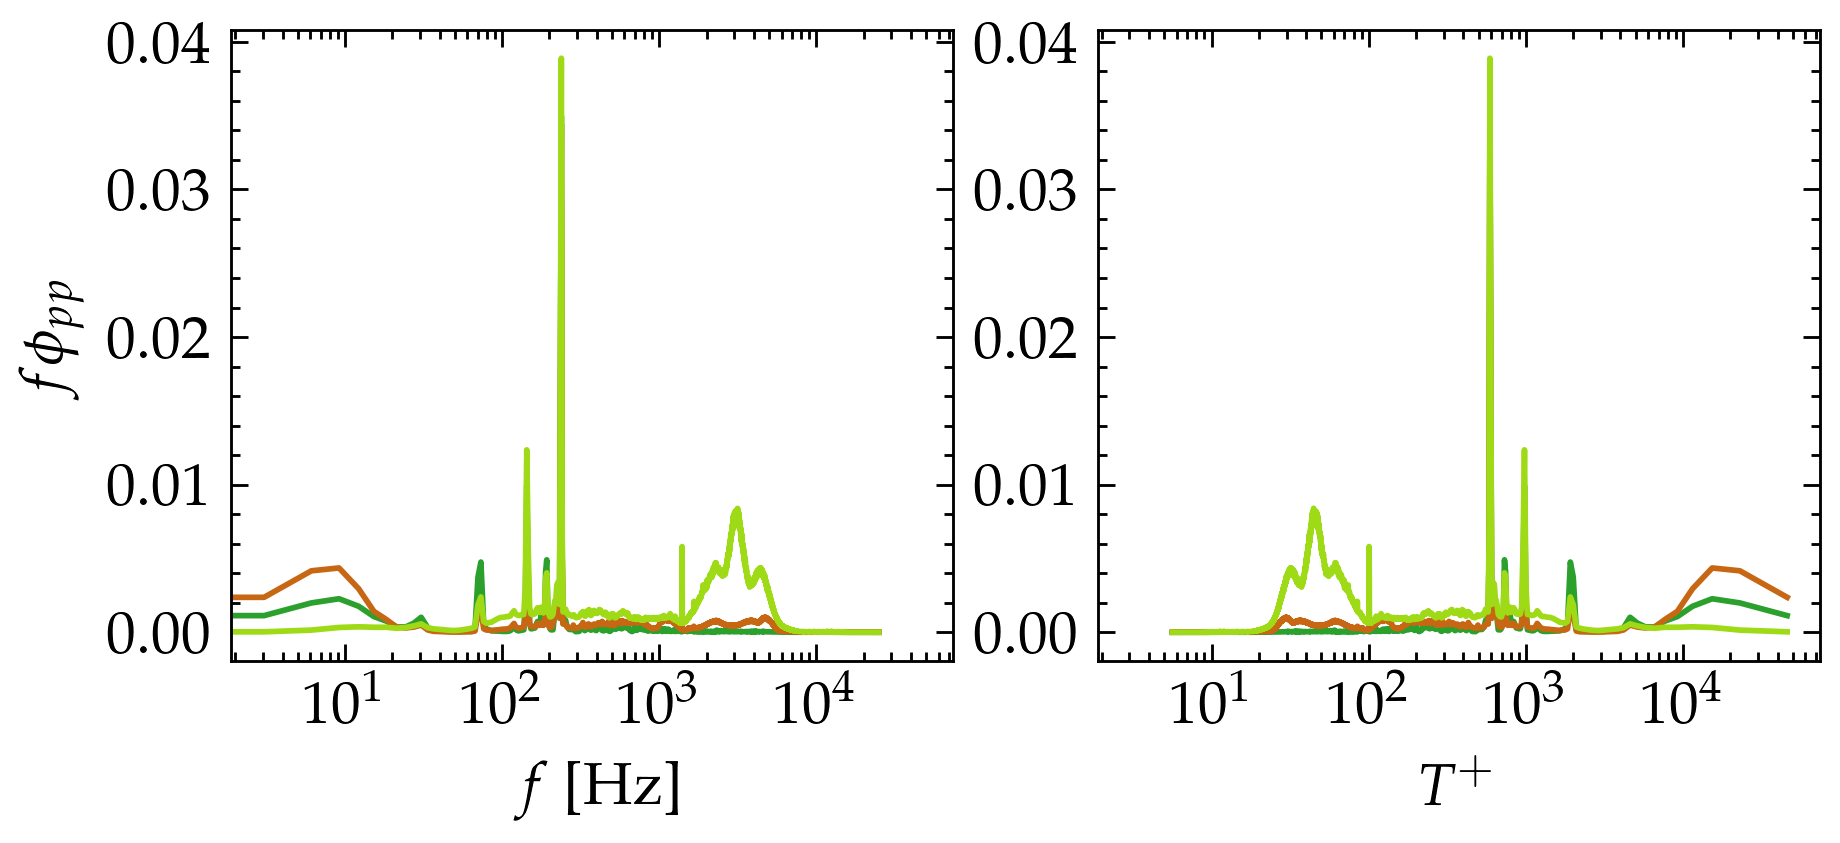
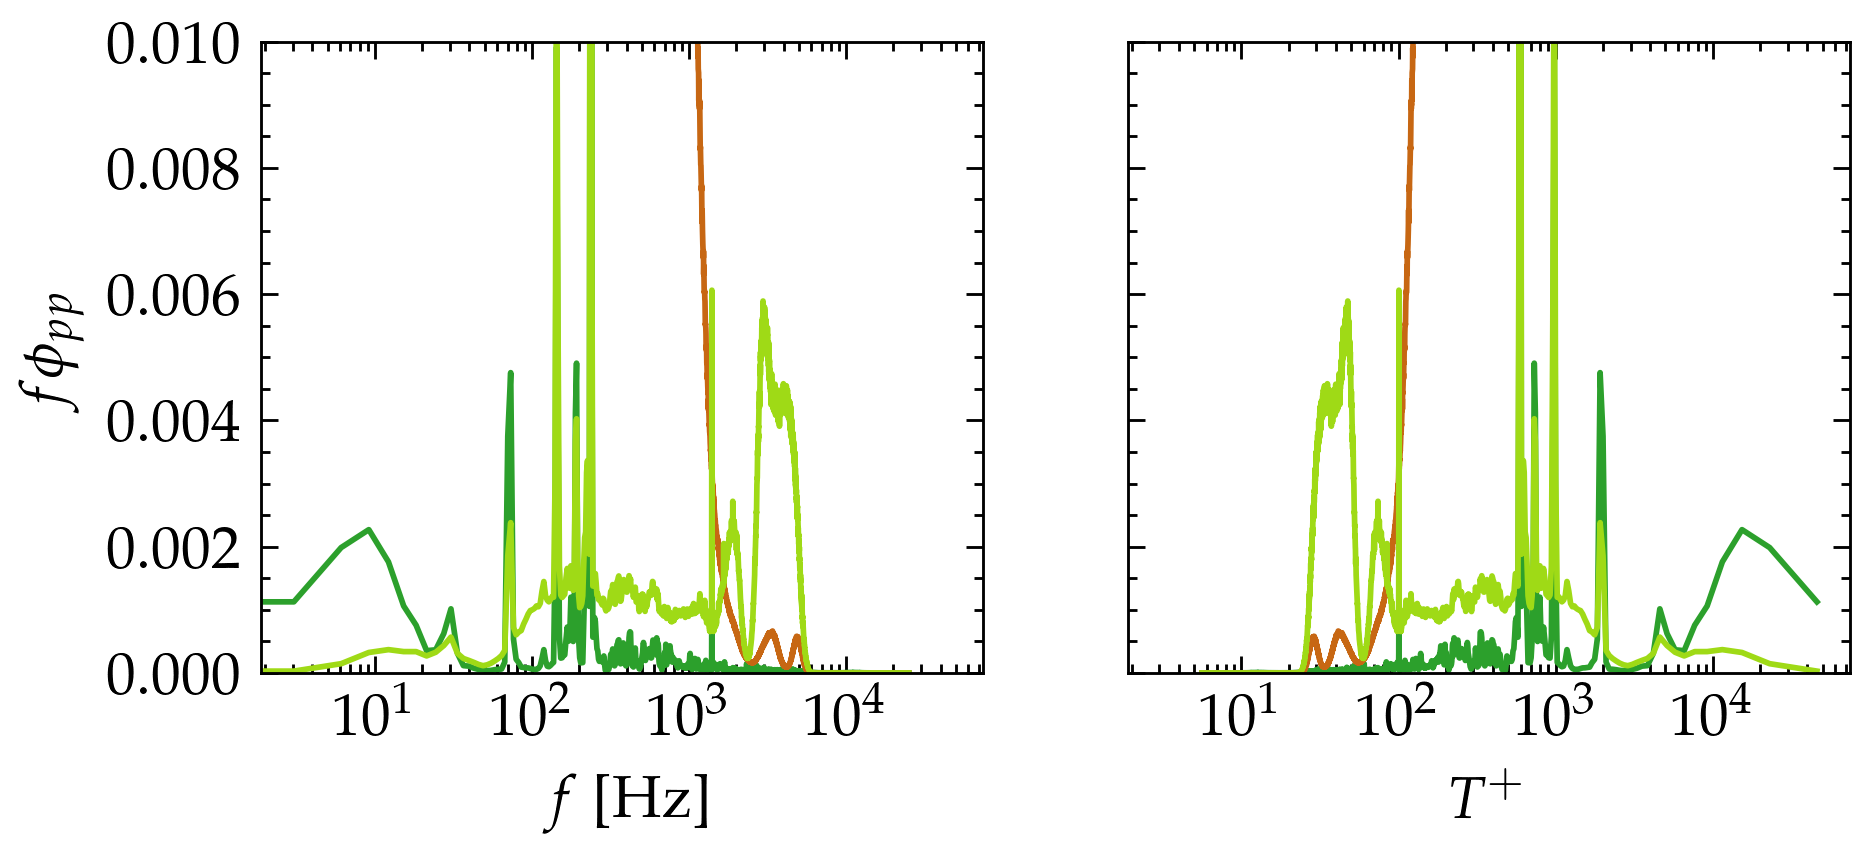
Try smaller bins

Changed region(s): [[0.0, 0.0308, 0.9913, 0.8636], [0.2788, 0.8944, 0.4027, 0.987], [0.7745, 0.8944, 0.8054, 0.9561]]

diff --git a/src/25-10-15_tf_calib.py b/src/25-10-15_tf_calib.py
@@ -242,9 +242,9 @@ def combine_anechoic_calibrations(
     f1, H1, g2_1,
     f2, H2, g2_2,
     *,
-    gmin: float = 0.3,
+    gmin: float = 0.99,
     smooth_oct: float | None = 1/6,
-    points_per_oct: int = 48,
+    points_per_oct: int = 32,
     eps: float = 1e-12,
 ):
     """
@@ -671,43 +671,6 @@ def apply_frf(
     y = np.fft.irfft(X * Hi, n=Nfft)[:N]
     return y
 
-def apply_frf_ph_corr(
-    x: np.ndarray,
-    fs: float,
-    f: np.ndarray,
-    H: np.ndarray,
-    demean: bool = True,
-    zero_dc: bool = True,
-):
-    """
-    Apply a measured FRF H (x→y) to a time series x to synthesise y.
-    This is the forward operation: Y = H · X in the frequency domain.
-    """
-    x = np.asarray(x, float)
-    if demean:
-        x = x - x.mean()
-
-    N = x.size
-    Nfft = int(2 ** np.ceil(np.log2(N)))
-    X = np.fft.rfft(x, n=Nfft)
-    fr = np.fft.rfftfreq(Nfft, d=1.0 / fs)
-
-    mag = np.abs(H)
-    phi = np.unwrap(np.angle(H))
-    # Safer OOB behaviour: taper magnitude to zero outside measured band
-    mag_i = np.interp(fr, f, mag, left=0.0, right=0.0)
-    phi_i = np.interp(fr, f, phi, left=phi[0], right=phi[-1])
-    Hi = mag_i * np.exp(1j * phi_i)
-
-    if zero_dc:
-        Hi[0] = 0.0
-        if Nfft % 2 == 0:
-            Hi[-1] = 0.0
-
-    y = np.fft.irfft(X * Hi, n=Nfft)[:N]
-    return y
-
-
 def design_notches(fs, freqs, Q=30.0):
     """
     Make a cascade of IIR notch filters (as SOS).
@@ -735,98 +698,6 @@ def apply_notches(x, sos):
     if sos is None:
         return x
     return sosfiltfilt(sos, x)
-
-
-
-# --------- Inner scaling helpers (units & Jacobian are correct) ---------
-def f_plus_from_f(f: np.ndarray, u_tau: float, nu: float) -> np.ndarray:
-    """f⁺ = f * nu / u_tau²."""
-    return f * (nu / (u_tau**2))
-
-
-def phi_pp_plus_per_fplus(Pyy: np.ndarray, rho: float, u_tau: float, nu: float) -> np.ndarray:
-    """
-    Dimensionless PSD per unit f⁺:
-    Φ_pp⁺(f⁺) = Φ_pp(f) / (ρ² u_τ² ν)
-    (Jacobian df/df⁺ = u_τ²/ν has been applied.)
-    """
-    return Pyy / ((rho**2) * (u_tau**2) * nu)
-
-
-def premultiplied_phi_pp_plus(f: np.ndarray, Pyy: np.ndarray, rho: float, u_tau: float, nu: float):
-    """
-    Return (1/f⁺, f⁺ Φ_pp⁺(f⁺)) with the zero bin safely excluded.
-    Using the identity: f⁺ Φ_pp⁺ = f * Φ_pp / (ρ² u_τ⁴), but computed via f⁺·Φ_pp⁺ for clarity.
-    """
-    f = np.asarray(f, float)
-    Pyy = np.asarray(Pyy, float)
-    f_plus = f_plus_from_f(f, u_tau, nu)
-    phi_plus = phi_pp_plus_per_fplus(Pyy, rho, u_tau, nu)   # per unit f⁺
-    y = f_plus * phi_plus                                   # premultiplied
-    mask = f_plus > 0
-    return 1.0 / f_plus[mask], y[mask]
-
-
-# --------- Robust forward equaliser for PH→nc ---------
-def _moving_average(y: np.ndarray, win: int = 7):
-    if win <= 1:
-        return y
-    k = int(max(1, win))
-    k = k + 1 - (k % 2)  # force odd
-    w = np.ones(k, float) / k
-    return np.convolve(y, w, mode='same')
-
-def stabilise_forward_frf(f: np.ndarray,
-                          H: np.ndarray,
-                          gamma2: np.ndarray,
-                          fs: float,
-                          g2_thresh: float = 0.6,
-                          smooth_bins: int = 9,
-                          enforce_min_gain: bool = True,
-                          monotone_hf_envelope: bool = True,
-                          clip_gain_max: float = 50.0):
-    """
-    Produce a forward PH→nc equaliser H_stab that:
-      * keeps the measured phase (unwrapped),
-      * smooths |H|,
-      * enforces |H| >= 1 where coherence is reliable,
-      * (optionally) makes the HF tail non-decreasing beyond the first unity crossing,
-      * extends the last reliable gain into the low-coherence tail,
-      * clips ridiculous gains to 'clip_gain_max'.
-    """
-    f = np.asarray(f, float)
-    H = np.asarray(H, complex)
-    gamma2 = np.asarray(gamma2, float)
-
-    mag = np.abs(H).astype(float)
-    phi = np.unwrap(np.angle(H))
-    # smooth
-    mag_s = _moving_average(mag, smooth_bins)
-
-    # coherent region
-    cmask = (gamma2 >= g2_thresh)
-    if np.any(cmask) and enforce_min_gain:
-        mag_s[cmask] = np.maximum(mag_s[cmask], 1.0)
-
-    # find first index where |H|>=1 in coherent region
-    idx_coh = np.where(cmask & (mag_s >= 1.0))[0]
-    if monotone_hf_envelope and idx_coh.size > 0:
-        start = int(idx_coh[0])
-        # enforce non-decreasing envelope beyond 'start' (within coherent mask)
-        # we also allow it to propagate a little into slightly lower g2 to avoid edge dips
-        env = np.maximum.accumulate(mag_s[start:])
-        mag_s[start:] = env
-
-    # extend the last reliable coherent gain across the trailing low-coherence tail
-    if np.any(cmask):
-        last_coh = int(np.max(np.where(cmask)[0]))
-        mag_s[last_coh+1:] = max(mag_s[last_coh], 1.0)
-
-    # clip absurd gains
-    mag_s = np.clip(mag_s, 0.0, clip_gain_max)
-
-    H_stab = mag_s * np.exp(1j * phi)
-    return H_stab
 
 
 # --------- Coherent FS-noise cancellation ---------
@@ -1273,10 +1144,24 @@ def calibration_700_100psi(plot=[0,1]):
     # lam = alpha * (1 - g2_bar) / (g2_bar + 1e-12) * (np.abs(H1_hat)**2)
     # F = np.conj(H1_hat) / (np.abs(H1_hat)**2 + lam + 1e-12)
 
+    # plot g1_lab g2_lab
+    if 3 in plot:
+        fig, ax = plt.subplots(1, 1, figsize=(5, 3), dpi=600)
+        ax.set_title(r'Coherence $\gamma^2$ used in calibration fusion ($700\mu m$, 100psi)')
+        ax.semilogx(f1_lab, g1_lab, lw=1, color=ph1_colour, label='PH1 lab fused')
+        ax.semilogx(f2_lab, g2_lab, lw=1, color=ph2_colour, label='PH2 lab fused')
+        ax.set_ylabel(r'$\gamma^2_{\mathrm{PH-NC}}(f)$')
+        ax.set_xlabel(r'$f\ \mathrm{[Hz]}$')
+        ax.set_ylim(-0.05, 1.05)
+        ax.legend()
+        fig.tight_layout()
+        plt.savefig(f"{OUTPUT_DIR}/700_100psi_gamma_fuse.png", dpi=600)
+        plt.close()
+
 if __name__ == "__main__":
     # calibration()
     # calibration_700_atm()
     # calibration_700_50psi()
-    calibration_700_100psi(plot=[])
+    calibration_700_100psi(plot=[2, 3])
 
     # flow_tests()

diff --git a/src/25-10-15_spec.py b/src/25-10-15_spec.py
@@ -1041,7 +1041,7 @@ def calibration_700_100psi(plot=[0,1]):
     if 4 in plot:
         
         # plot the TF-corrected spectra as T^+
-        fig, ax = plt.subplots(1, 2, figsize=(5, 2.), sharex=True)
+        fig, ax = plt.subplots(1, 2, figsize=(5, 2.), sharey=True, sharex=True)
 
         T_plus = 1/f * (u_tau**2)/nu
 
@@ -1049,6 +1049,8 @@ def calibration_700_100psi(plot=[0,1]):
         ax[0].semilogx(f, f * Pyy_ph1_close_nkd_fused_insitu, label='PH1 (Fused In-situ TF)', color=ph1_colour)
         ax[0].semilogx(f, f * Pyy_ph2_close_nkd_fused_insitu, label='PH2 (Fused In-situ TF)', color=ph2_colour)
         ax[0].set_xlabel("$f$ [Hz]")
+
+        ax[0].set_ylim(0, 1e-2)
 
         ax[1].semilogx(T_plus, f * Pyy_nkd_close, label='NC', color=nkd_colour)
         ax[1].semilogx(T_plus, f * Pyy_ph1_close_nkd_fused_insitu, label='PH1 (Fused In-situ TF)', color=ph1_colour)
@@ -1068,7 +1070,7 @@ if __name__ == "__main__":
     # calibration()
     # calibration_700_atm()
     # calibration_700_50psi()
-    calibration_700_100psi(plot=[1])
+    calibration_700_100psi(plot=[4])
     # ic(np.exp(-1)/1)
 
     # flow_tests()
